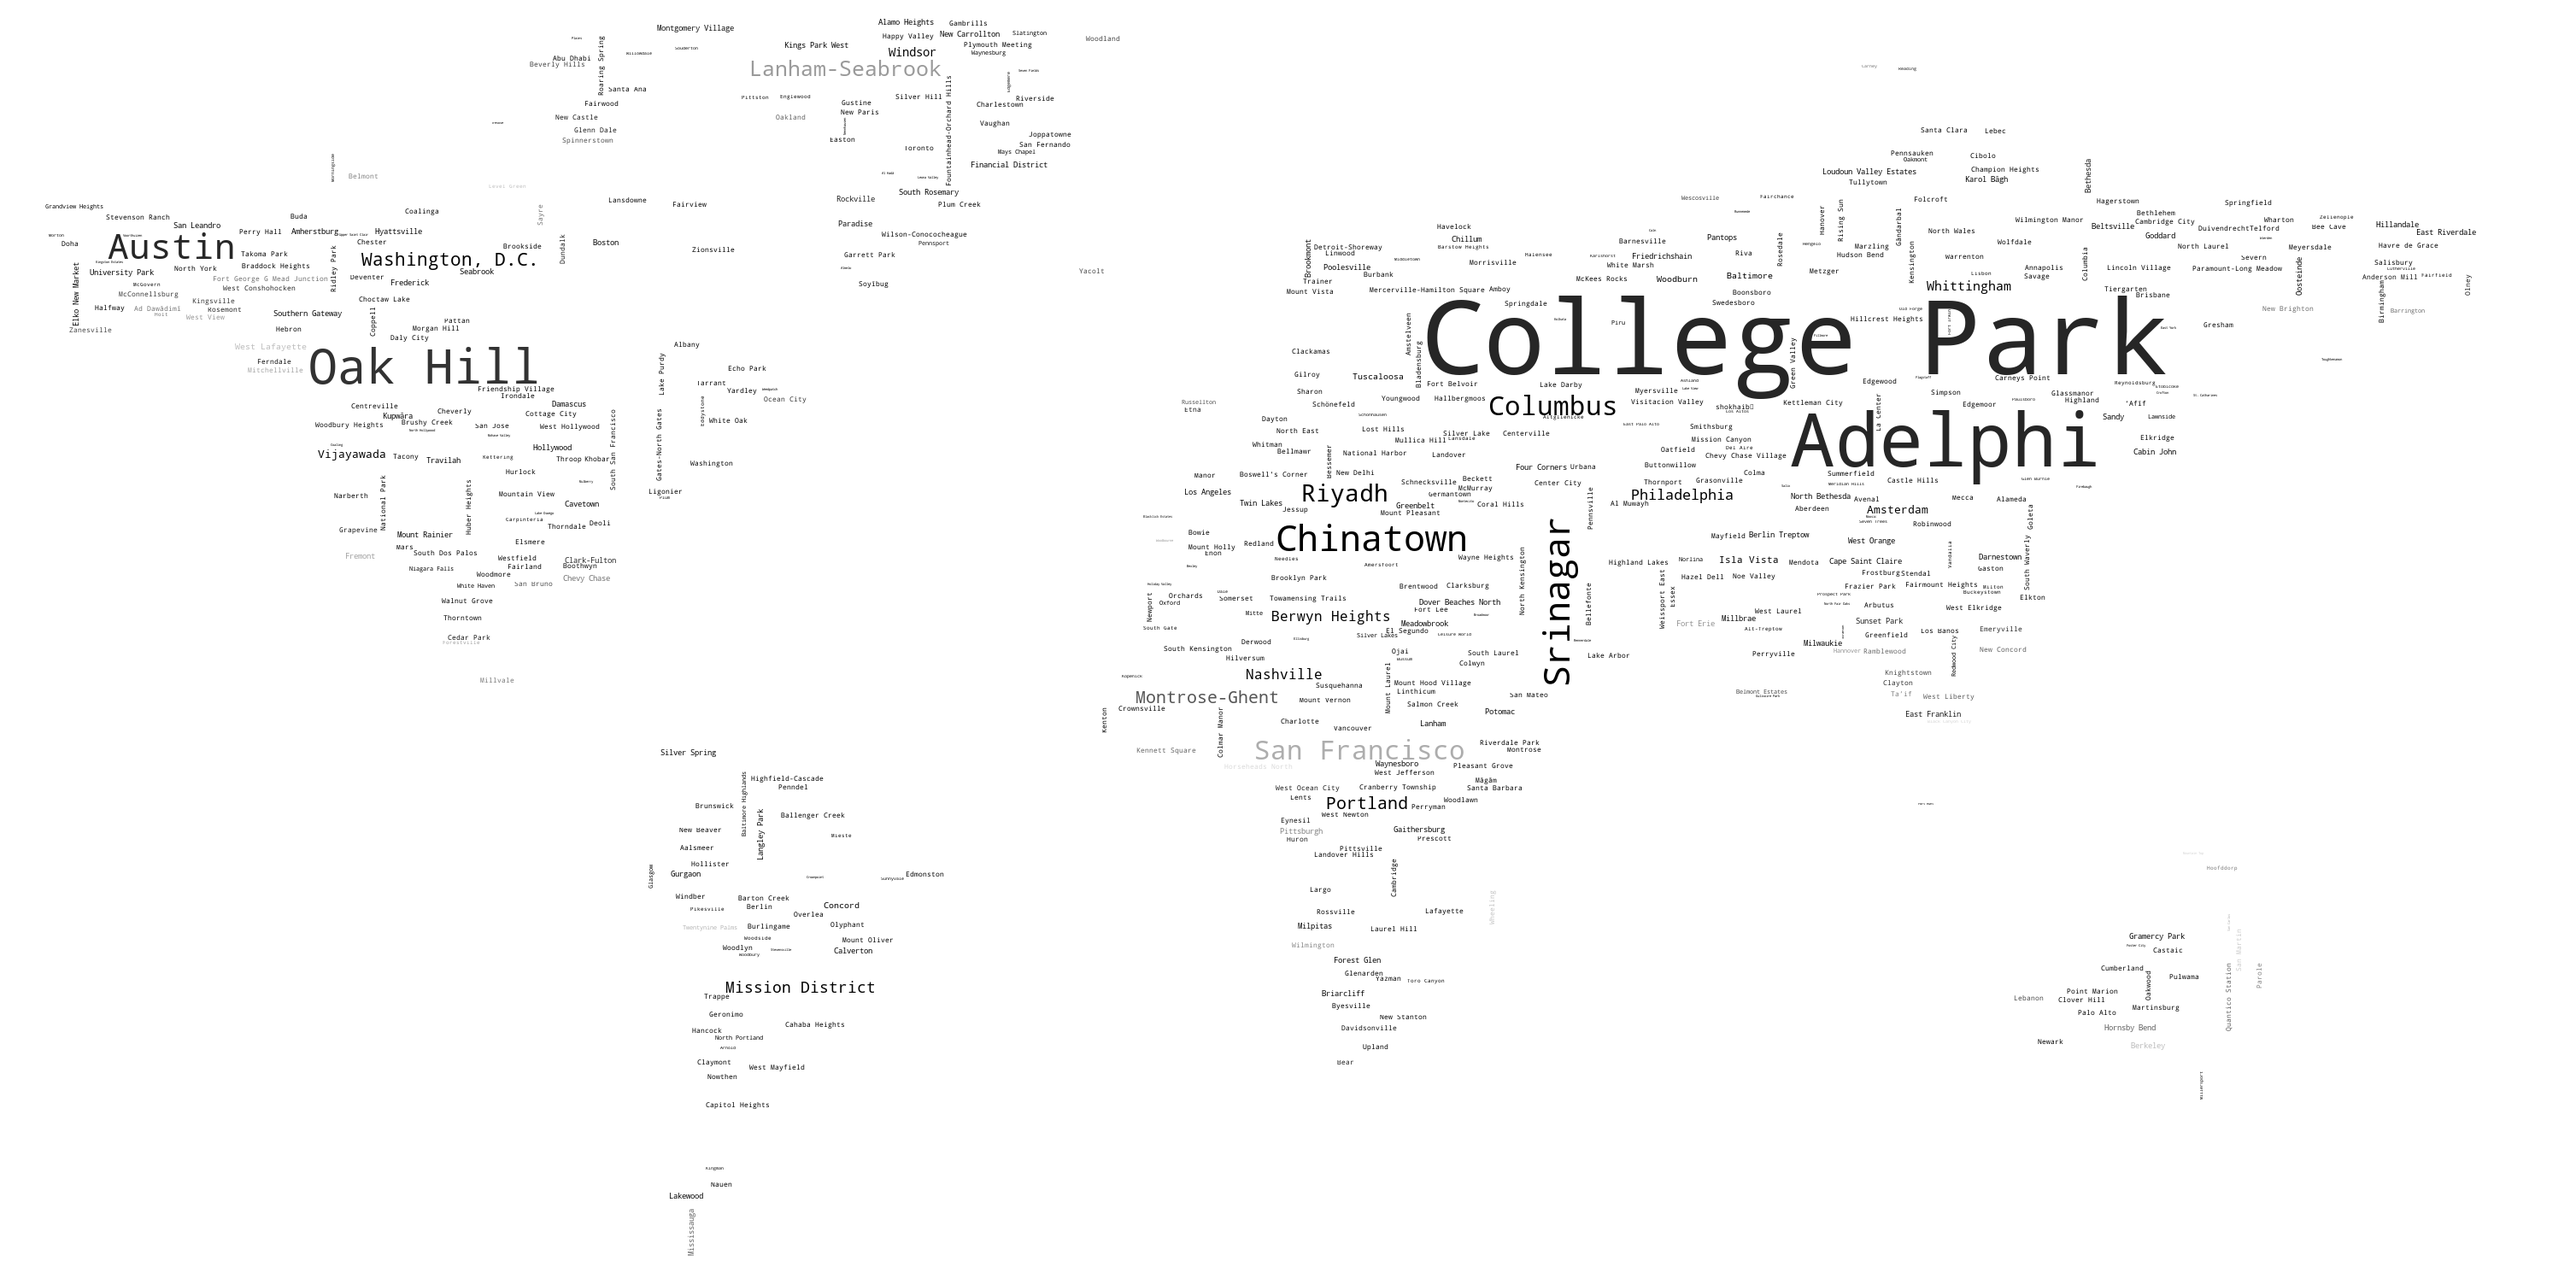
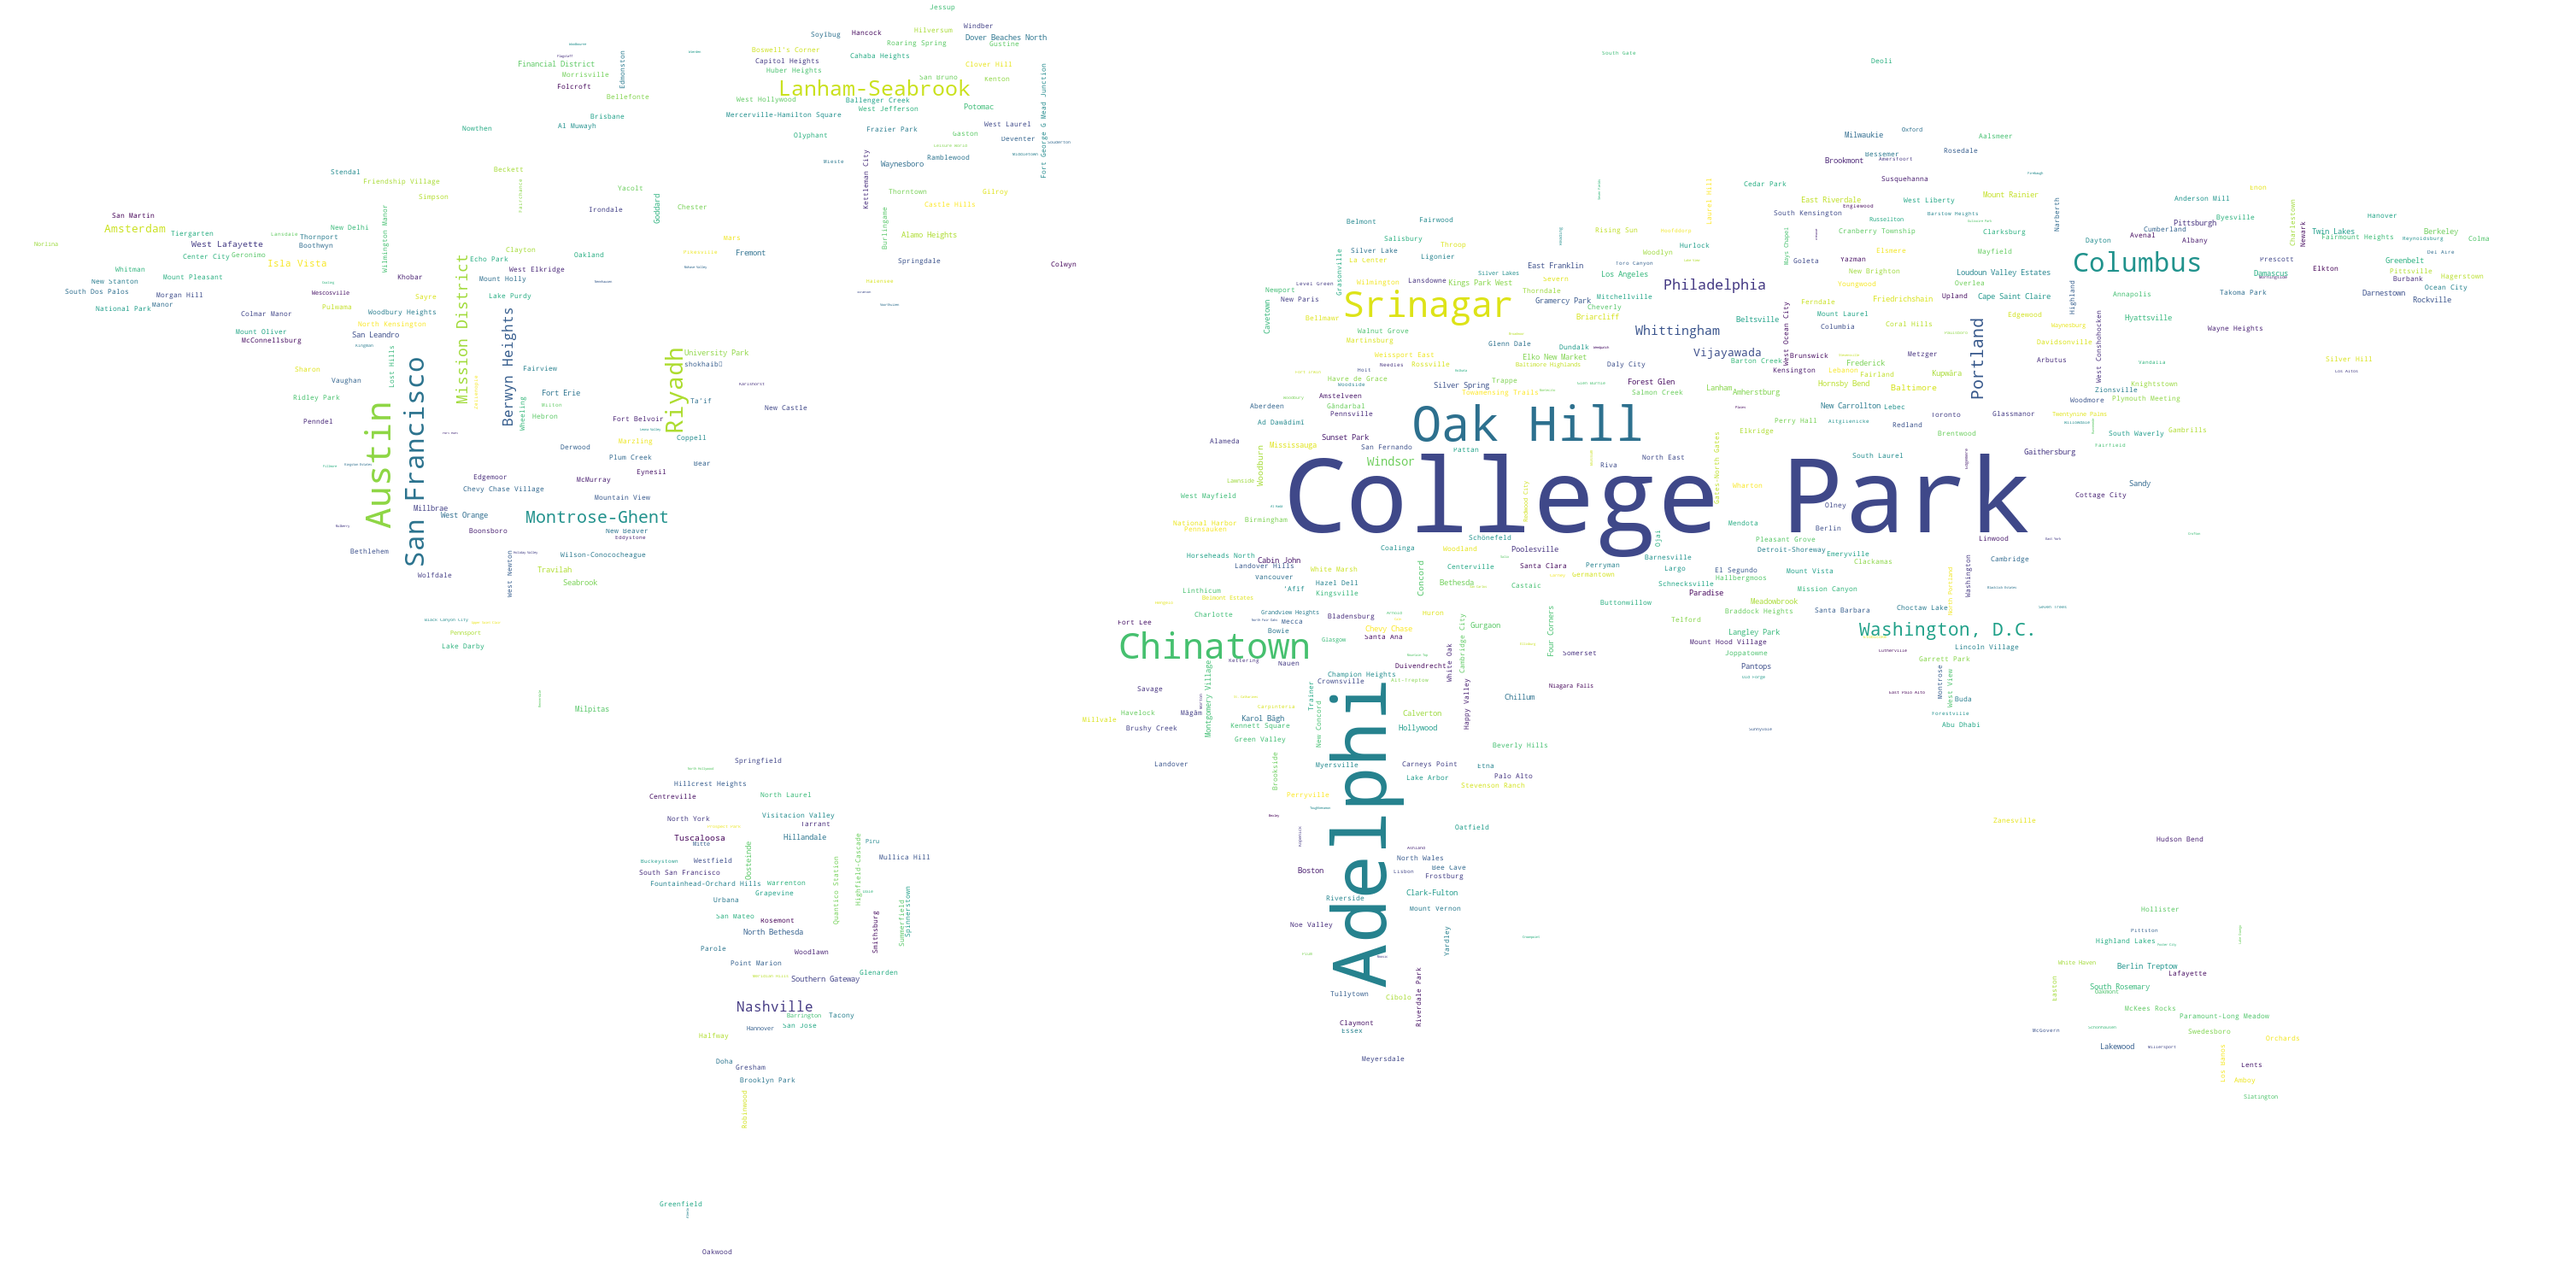
grayscale

diff --git a/generate_wordcloud/generate_wordcloud.py b/generate_wordcloud/generate_wordcloud.py
@@ -18,9 +18,6 @@ image_colors = ImageColorGenerator(mask)
 wc = WordCloud(background_color="white", max_words=1000,
                mask=mask)
 
-
 wc.generate_from_frequencies(freqDict)
-
-# plt.imshow(wc.recolor(color_func=image_colors), interpolation="bilinear")
-
+wc.recolor(color_func=image_colors)
 wc.to_file('thing.png')
